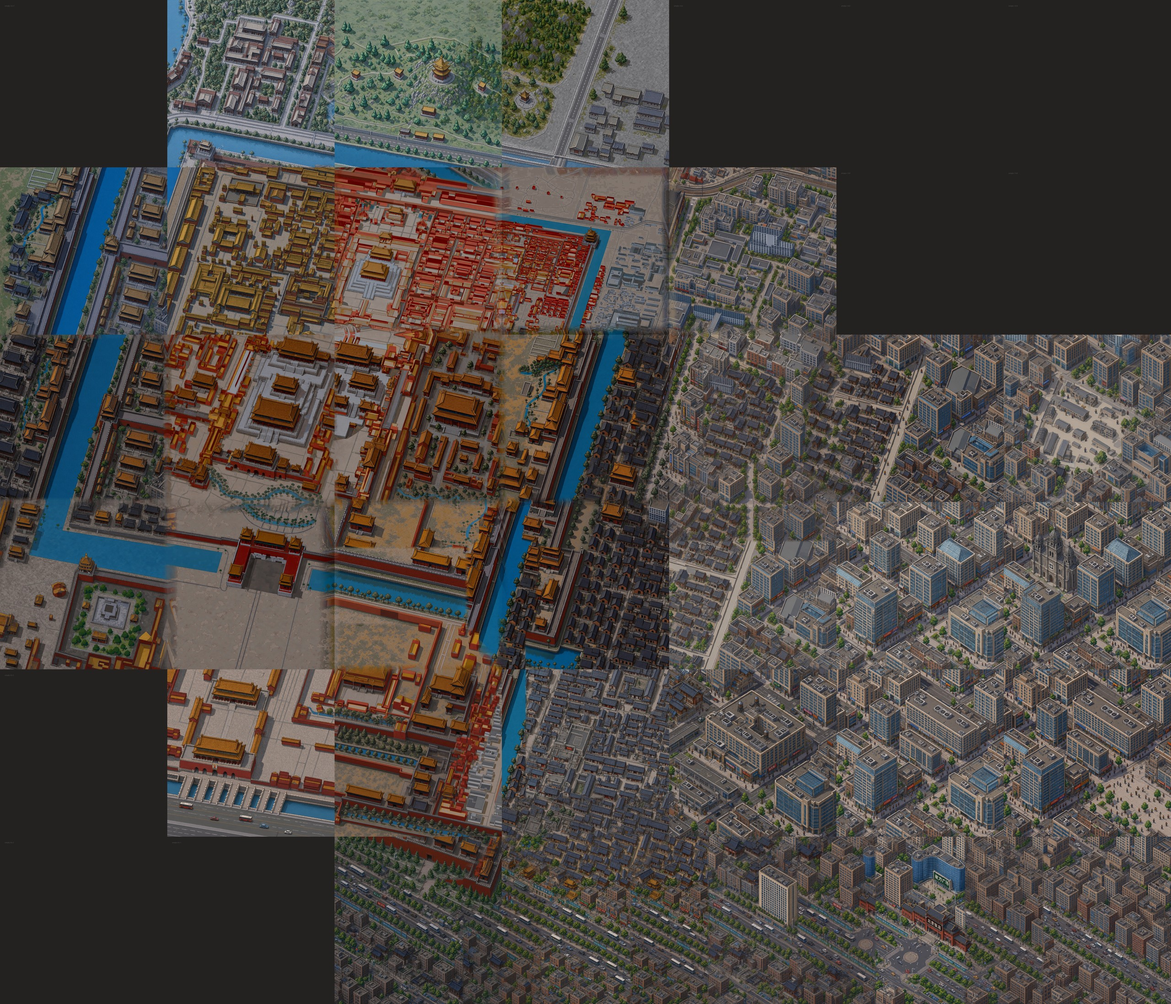
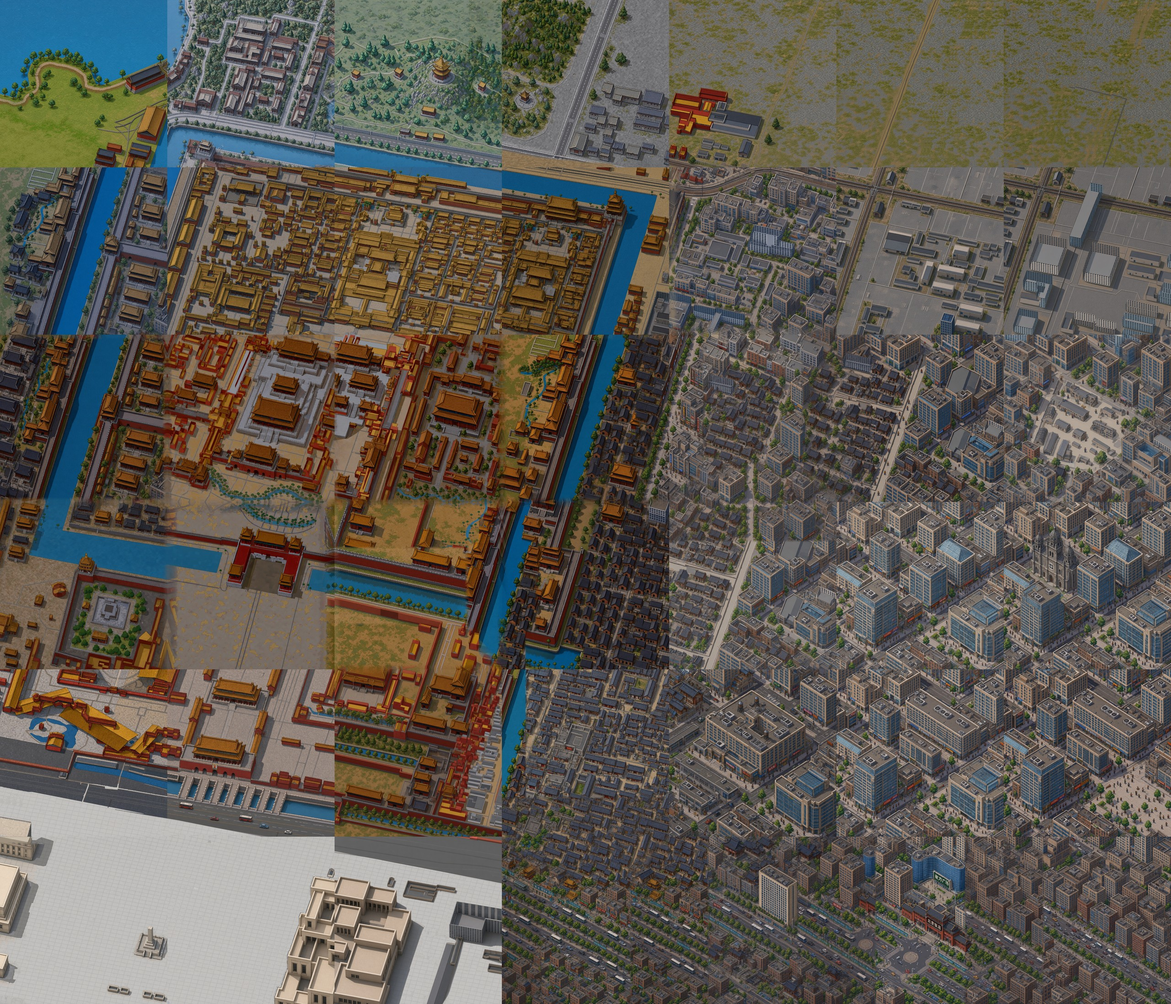
记录项目暂停，并更新预览总览。
README 写明起因与先停在这里的原因，examples 总览换成暂停时的直播窗快照，供 v0.1.1-preview 使用。

diff --git a/README.md b/README.md
@@ -1,8 +1,16 @@
 # pixel-map-beijing
 
-北京超大型等距像素地图。风格对标 [isometric.nyc](https://isometric.nyc/)，定位是积木城生成艺术，不是带搜索与标注的地图工具。当前仓库是故宫到王府井（并沿中轴线外扩中）的试点源码。
+北京超大型等距像素地图。风格对标 [isometric.nyc](https://isometric.nyc/)，定位是积木城生成艺术，不是带搜索与标注的地图工具。当前仓库是故宫到王府井、并沿中轴线外扩到景山与天安门广场的试点源码。
+
+**这个项目目前已暂停**（2026-11-15）。已经做完、能看的部分留在 Git 和 Releases 里，以后有条件再继续。旧版本不会被覆盖。
 
 许可证为 MIT（见 `LICENSE`）。
+
+## 项目起因，以及为什么先停在这里
+
+看到 [isometric.nyc](https://isometric.nyc/) 的手绘感等距像素画，觉得喜欢，就想搞一套北京的。当时周用量快过期了，不用白不用，于是开始拼命往前推。推着推着才发现：这座城太大了，token 烧不起。qiong。
+
+所以先停在这里。不是不想做，是现在烧不起。已有的源码、配置和预览包都还在，以后再说。
 
 ## 仓库里有什么
 
@@ -29,6 +37,8 @@
 
 仓库本身不包含可缩放的 DZI 瓦片。请先克隆源码，再下载对应版本的 GitHub Release 数据包，解压到仓库根目录后启动本地 HTTP 服务。
 
+当前推荐下载暂停时的预览包 `v0.1.1-preview`。上一版 `v0.1.0-preview` 仍在，不要覆盖已保存的旧包。
+
 ### 1. 克隆仓库
 
 ```bash
@@ -38,23 +48,23 @@ cd pixel-map-beijing
 
 ### 2. 下载并解压 Release 数据包
 
-在仓库根目录下载预览版 `v0.1.0-preview` 的附件（也可换成更新的 Release，但不要覆盖已保存的旧包）：
+在仓库根目录下载预览版 `v0.1.1-preview` 的附件：
 
 ```bash
 # 需要已安装 GitHub CLI
-gh release download v0.1.0-preview --repo NovenBuilds/pixel-map-beijing
+gh release download v0.1.1-preview --repo NovenBuilds/pixel-map-beijing
 ```
 
-也可以在浏览器打开 [Releases 页面](https://github.com/NovenBuilds/pixel-map-beijing/releases) ，下载 `beijing-pilot-dzi-v0.1.0-preview.zip` 和 `SHA256SUMS.txt`。
+也可以在浏览器打开 [Releases 页面](https://github.com/NovenBuilds/pixel-map-beijing/releases) ，下载 `beijing-pilot-dzi-v0.1.1-preview.zip` 和 `SHA256SUMS.txt`。
 
 校验并解压到仓库根目录（会在 `viewer/` 下写入 `beijing-pilot.dzi` 与 `beijing-pilot_files/`）：
 
 ```bash
 sha256sum -c SHA256SUMS.txt
-unzip beijing-pilot-dzi-v0.1.0-preview.zip
+unzip beijing-pilot-dzi-v0.1.1-preview.zip
 ```
 
-版本号、对应 Git 提交、覆盖范围、文件体积和 SHA256 写在该 [Release 说明](https://github.com/NovenBuilds/pixel-map-beijing/releases/tag/v0.1.0-preview) 里，也可对照 `SHA256SUMS.txt`。
+版本号、对应 Git 提交、覆盖范围、文件体积和 SHA256 写在该 [Release 说明](https://github.com/NovenBuilds/pixel-map-beijing/releases/tag/v0.1.1-preview) 里，也可对照 `SHA256SUMS.txt`。
 
 ### 3. 启动观看器
 
@@ -65,6 +75,6 @@ python3 -m http.server 8765
 
 然后在浏览器打开 http://127.0.0.1:8765/ 。不要用 `file://` 直接打开 HTML，浏览器会拦截瓦片请求。
 
-本预览包覆盖当前直播拼接窗：行 R=−2…3、列 C=−2…4（7168×6144 像素），范围从景山到故宫、王府井，并已并入天安门。广场西侧与前门一带仍在草稿中，未进入本包。
+本预览包覆盖暂停时的直播拼接窗：行 R=−2…3、列 C=−2…4（7168×6144 像素，42/42 格），范围从景山到故宫、王府井，并已并入天安门与广场主体。广场西侧与前门一带仍未进入本包。这是能看的试点草稿，还没有达到 isometric.nyc 的完成度。
 
 没有下载瓦片时，可先看 `examples/overview_2560.jpg`。
